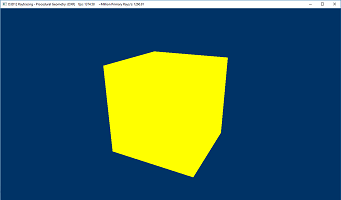
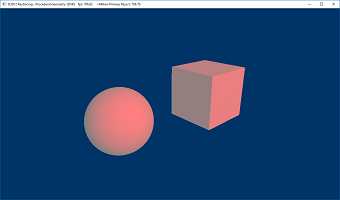
Added a sphere to the procedural geometry sample. (#300)

Changed region(s): [[0.2353, 0.24, 0.7353, 0.9], [0.0, 0.0, 0.4412, 0.03]]

diff --git a/Samples/Desktop/D3D12Raytracing/src/D3D12RaytracingProceduralGeometry/D3D12RaytracingProceduralGeometry.cpp b/Samples/Desktop/D3D12Raytracing/src/D3D12RaytracingProceduralGeometry/D3D12RaytracingProceduralGeometry.cpp
@@ -108,7 +108,7 @@ void D3D12RaytracingProceduralGeometry::InitializeScene()
     // Setup camera.
     {
         // Initialize the view and projection inverse matrices.
-        m_eye = { 0.0f, 2.0f, -5.0f, 1.0f };
+        m_eye = { 0.0f, 3.0f, -7.5f, 1.0f };
         m_at = { 0.0f, 0.0f, 0.0f, 1.0f };
         XMVECTOR right = { 1.0f, 0.0f, 0.0f, 0.0f };
 
@@ -130,7 +130,7 @@ void D3D12RaytracingProceduralGeometry::InitializeScene()
         XMFLOAT4 lightAmbientColor;
         XMFLOAT4 lightDiffuseColor;
 
-        lightPosition = XMFLOAT4(0.0f, 1.8f, -3.0, 0.0f);
+        lightPosition = XMFLOAT4(0.0f, 18.0f, -30.0f, 0.0f);
         m_sceneCB[frameIndex].lightPosition = XMLoadFloat4(&lightPosition);
 
         lightAmbientColor = XMFLOAT4(0.5f, 0.5f, 0.5f, 1.0f);
@@ -418,7 +418,11 @@ void D3D12RaytracingProceduralGeometry::BuildGeometry()
 {
     auto device = m_deviceResources->GetD3DDevice();
 #if USE_AABB_GEOMETRY
-    D3D12_RAYTRACING_AABB aabb = { -1,-1,-1,1,1,1 };
+
+    D3D12_RAYTRACING_AABB aabb[1] = 
+    { 
+        {-2,-2,-2,2,2,2 }
+    };
     AllocateUploadBuffer(device, &aabb, sizeof(aabb), &m_aabbBuffer.resource);
     CreateBufferSRV(&m_aabbBuffer, 1, sizeof(aabb));
 #else
@@ -529,6 +533,7 @@ void D3D12RaytracingProceduralGeometry::BuildAccelerationStructures()
     D3D12_RAYTRACING_ACCELERATION_STRUCTURE_PREBUILD_INFO topLevelPrebuildInfo = {};
     prebuildInfoDesc.Type = D3D12_RAYTRACING_ACCELERATION_STRUCTURE_TYPE_TOP_LEVEL;
     prebuildInfoDesc.pGeometryDescs = nullptr;
+    prebuildInfoDesc.NumDescs = 2;
     if (m_raytracingAPI == RaytracingAPI::FallbackLayer)
     {
         m_fallbackDevice->GetRaytracingAccelerationStructurePrebuildInfo(&prebuildInfoDesc, &topLevelPrebuildInfo);
@@ -542,6 +547,7 @@ void D3D12RaytracingProceduralGeometry::BuildAccelerationStructures()
     D3D12_RAYTRACING_ACCELERATION_STRUCTURE_PREBUILD_INFO bottomLevelPrebuildInfo = {};
     prebuildInfoDesc.Type = D3D12_RAYTRACING_ACCELERATION_STRUCTURE_TYPE_BOTTOM_LEVEL;
     prebuildInfoDesc.pGeometryDescs = &geometryDesc;
+    prebuildInfoDesc.NumDescs = 1;
     if (m_raytracingAPI == RaytracingAPI::FallbackLayer)
     {
         m_fallbackDevice->GetRaytracingAccelerationStructurePrebuildInfo(&prebuildInfoDesc, &bottomLevelPrebuildInfo);
@@ -592,22 +598,34 @@ void D3D12RaytracingProceduralGeometry::BuildAccelerationStructures()
     ComPtr<ID3D12Resource> instanceDescs;
     if (m_raytracingAPI == RaytracingAPI::FallbackLayer)
     {
-        D3D12_RAYTRACING_FALLBACK_INSTANCE_DESC instanceDesc = {};
-        instanceDesc.Transform[0] = instanceDesc.Transform[5] = instanceDesc.Transform[10] = 1;
-        instanceDesc.InstanceMask = 1;
+        D3D12_RAYTRACING_FALLBACK_INSTANCE_DESC instanceDesc[2] = {};
+        instanceDesc[0].Transform[0] = instanceDesc[0].Transform[5] = instanceDesc[0].Transform[10] = 1;
+        instanceDesc[0].Transform[3] = 2.0f;
+
+        instanceDesc[1].Transform[0] = instanceDesc[1].Transform[5] = instanceDesc[1].Transform[10] = 1;
+        instanceDesc[1].Transform[3] = -2.0f;
+        instanceDesc[0].InstanceMask = 1;
+        instanceDesc[0].InstanceMask = 1;
+        instanceDesc[1].InstanceMask = 1;
         UINT numBufferElements = static_cast<UINT>(bottomLevelPrebuildInfo.ResultDataMaxSizeInBytes) / sizeof(UINT32);
-        instanceDesc.AccelerationStructure = CreateFallbackWrappedPointer(m_bottomLevelAccelerationStructure.Get(), numBufferElements);
-        AllocateUploadBuffer(device, &instanceDesc, sizeof(instanceDesc), &instanceDescs, L"InstanceDescs");
+        instanceDesc[0].AccelerationStructure = CreateFallbackWrappedPointer(m_bottomLevelAccelerationStructure.Get(), numBufferElements);
+        instanceDesc[1].AccelerationStructure = instanceDesc[0].AccelerationStructure;
+        AllocateUploadBuffer(device, instanceDesc, sizeof(instanceDesc), &instanceDescs, L"InstanceDescs");
     }
     else // DirectX Raytracing
     {
-        D3D12_RAYTRACING_INSTANCE_DESC instanceDesc = {};
-        instanceDesc.Transform[0] = instanceDesc.Transform[5] = instanceDesc.Transform[10] = 1;
-        instanceDesc.InstanceMask = 1;
-        instanceDesc.AccelerationStructure = m_bottomLevelAccelerationStructure->GetGPUVirtualAddress();
+        D3D12_RAYTRACING_INSTANCE_DESC instanceDesc[2] = {};
+        instanceDesc[0].Transform[0] = instanceDesc[0].Transform[5] = instanceDesc[0].Transform[10] = 1;
+        instanceDesc[0].Transform[3] = 2.0f;
+
+        instanceDesc[1].Transform[0] = instanceDesc[1].Transform[5] = instanceDesc[1].Transform[10] = 1;
+        instanceDesc[1].Transform[3] = -2.0f;
+        instanceDesc[0].InstanceMask = 1;
+        instanceDesc[1].InstanceMask = 1;
+        instanceDesc[0].AccelerationStructure = m_bottomLevelAccelerationStructure->GetGPUVirtualAddress();
+        instanceDesc[1].AccelerationStructure = instanceDesc[0].AccelerationStructure;
         AllocateUploadBuffer(device, &instanceDesc, sizeof(instanceDesc), &instanceDescs, L"InstanceDescs");
     }
-
     // Create a wrapped pointer to the acceleration structure.
     if (m_raytracingAPI == RaytracingAPI::FallbackLayer)
     {
@@ -632,7 +650,7 @@ void D3D12RaytracingProceduralGeometry::BuildAccelerationStructures()
     {
         topLevelBuildDesc.Type = D3D12_RAYTRACING_ACCELERATION_STRUCTURE_TYPE_TOP_LEVEL;
         topLevelBuildDesc.DestAccelerationStructureData = { m_topLevelAccelerationStructure->GetGPUVirtualAddress(), topLevelPrebuildInfo.ResultDataMaxSizeInBytes };
-        topLevelBuildDesc.NumDescs = 1;
+        topLevelBuildDesc.NumDescs = 2;
         topLevelBuildDesc.pGeometryDescs = nullptr;
         topLevelBuildDesc.InstanceDescs = instanceDescs->GetGPUVirtualAddress();
         topLevelBuildDesc.ScratchAccelerationStructureData = { scratchResource->GetGPUVirtualAddress(), scratchResource->GetDesc().Width };

diff --git a/Samples/Desktop/D3D12Raytracing/src/D3D12RaytracingSimpleLighting/D3D12RaytracingSimpleLighting.cpp b/Samples/Desktop/D3D12Raytracing/src/D3D12RaytracingSimpleLighting/D3D12RaytracingSimpleLighting.cpp
@@ -129,7 +129,7 @@ void D3D12RaytracingSimpleLighting::InitializeScene()
         XMFLOAT4 lightAmbientColor;
         XMFLOAT4 lightDiffuseColor;
 
-        lightPosition = XMFLOAT4(0.0f, 1.8f, -3.0, 0.0f);
+        lightPosition = XMFLOAT4(0.0f, 1.8f, -3.0f, 0.0f);
         m_sceneCB[frameIndex].lightPosition = XMLoadFloat4(&lightPosition);
 
         lightAmbientColor = XMFLOAT4(0.5f, 0.5f, 0.5f, 1.0f);
